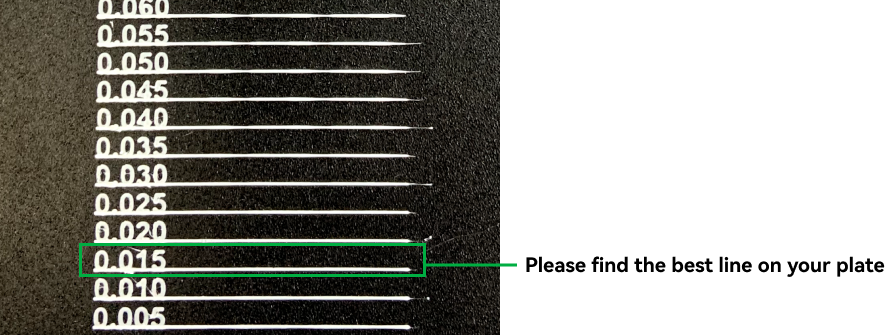
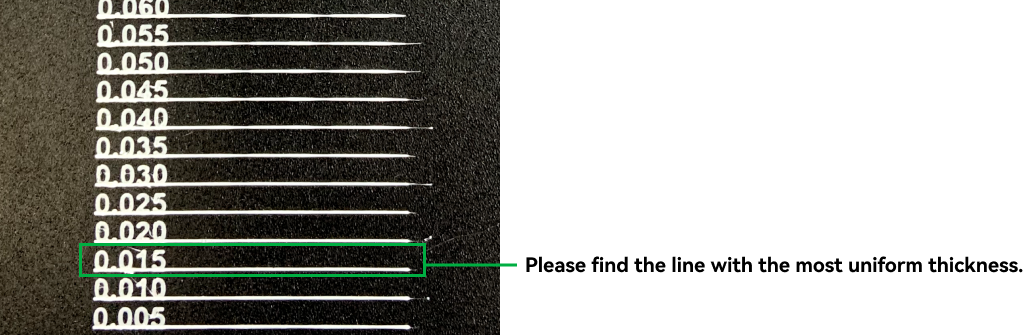
FIX: add Chinese pictures in cali page
(cherry picked from commit 848e51c5da6d9c5c3f4227ed6dc706b19e9eceae)

Changed region(s): [[0.0, 0.0, 1.0, 1.0]]

diff --git a/src/slic3r/GUI/CalibrationWizardSavePage.cpp b/src/slic3r/GUI/CalibrationWizardSavePage.cpp
@@ -514,7 +514,11 @@ void CaliPASaveManualPanel::create_panel(wxWindow* parent)
 }
 
 void CaliPASaveManualPanel::set_save_img() {
-    m_picture_panel->set_img(create_scaled_bitmap("fd_calibration_manual_result", nullptr, 330));
+    if (wxGetApp().app_config->get_language_code() == "zh-cn") { 
+        m_picture_panel->set_img(create_scaled_bitmap("fd_calibration_manual_result_CN", nullptr, 330));
+    } else {
+        m_picture_panel->set_img(create_scaled_bitmap("fd_calibration_manual_result", nullptr, 330));
+    }
 }
 
 void CaliPASaveManualPanel::set_default_name(const wxString& name) {
@@ -649,7 +653,11 @@ void CaliPASaveP1PPanel::create_panel(wxWindow* parent)
 }
 
 void CaliPASaveP1PPanel::set_save_img() {
-    m_picture_panel->set_img(create_scaled_bitmap("fd_calibration_manual_result", nullptr, 350));
+    if (wxGetApp().app_config->get_language_code() == "zh-cn") {
+        m_picture_panel->set_img(create_scaled_bitmap("fd_calibration_manual_result_CN", nullptr, 350));
+    } else {
+        m_picture_panel->set_img(create_scaled_bitmap("fd_calibration_manual_result", nullptr, 350));
+    }
 }
 
 bool CaliPASaveP1PPanel::get_result(float* out_k, float* out_n){
@@ -1220,7 +1228,11 @@ void CalibrationFlowCoarseSavePage::create_page(wxWindow* parent)
 }
 
 void CalibrationFlowCoarseSavePage::set_save_img() {
-    m_picture_panel->set_img(create_scaled_bitmap("flow_rate_calibration_coarse_result", nullptr, 350));
+    if (wxGetApp().app_config->get_language_code() == "zh-cn") { 
+        m_picture_panel->set_img(create_scaled_bitmap("flow_rate_calibration_coarse_result_CN", nullptr, 350));
+    } else {
+        m_picture_panel->set_img(create_scaled_bitmap("flow_rate_calibration_coarse_result", nullptr, 350));
+    }
 }
 
 void CalibrationFlowCoarseSavePage::set_default_name(const wxString& name) {
@@ -1350,7 +1362,11 @@ void CalibrationFlowFineSavePage::create_page(wxWindow* parent)
 }
 
 void CalibrationFlowFineSavePage::set_save_img() {
-    m_picture_panel->set_img(create_scaled_bitmap("flow_rate_calibration_fine_result", nullptr, 350));
+    if (wxGetApp().app_config->get_language_code() == "zh-cn") { 
+        m_picture_panel->set_img(create_scaled_bitmap("flow_rate_calibration_fine_result_CN", nullptr, 350));
+    } else {
+        m_picture_panel->set_img(create_scaled_bitmap("flow_rate_calibration_fine_result", nullptr, 350));
+    }
 }
 
 void CalibrationFlowFineSavePage::set_default_name(const wxString& name) {

diff --git a/src/slic3r/GUI/CalibrationWizardStartPage.cpp b/src/slic3r/GUI/CalibrationWizardStartPage.cpp
@@ -89,7 +89,11 @@ void CalibrationPAStartPage::create_page(wxWindow* parent)
     m_top_sizer->Add(m_when_content);
     m_top_sizer->AddSpacer(PRESET_GAP);
 
-    create_bitmap(parent, "cali_page_before_pa", "cali_page_after_pa");
+    if (wxGetApp().app_config->get_language_code() == "zh-cn") { 
+        create_bitmap(parent, "cali_page_before_pa_CN", "cali_page_after_pa_CN");
+    } else {
+        create_bitmap(parent, "cali_page_before_pa", "cali_page_after_pa");
+    }
     m_top_sizer->Add(m_images_sizer, 0, wxALL, 0);
     m_top_sizer->AddSpacer(PRESET_GAP);
 
@@ -199,7 +203,11 @@ void CalibrationFlowRateStartPage::create_page(wxWindow* parent)
     m_top_sizer->Add(m_when_content);
     m_top_sizer->AddSpacer(PRESET_GAP);
 
-    create_bitmap(parent, "cali_page_flow_introduction");
+    if (wxGetApp().app_config->get_language_code() == "zh-cn") { 
+        create_bitmap(parent, "cali_page_flow_introduction_CN");
+    } else {
+        create_bitmap(parent, "cali_page_flow_introduction");
+    }
     m_top_sizer->Add(m_images_sizer, 0, wxALL, 0);
     m_top_sizer->AddSpacer(PRESET_GAP);
 
@@ -326,7 +334,11 @@ void CalibrationMaxVolumetricSpeedStartPage::create_page(wxWindow* parent)
 
     m_top_sizer->AddSpacer(PRESET_GAP);
 
-    create_bitmap(parent, "cali_page_before_pa", "cali_page_after_pa");
+    if (wxGetApp().app_config->get_language_code() == "zh-cn") {
+        create_bitmap(parent, "cali_page_before_pa_CN", "cali_page_after_pa_CN");
+    } else {
+        create_bitmap(parent, "cali_page_before_pa", "cali_page_after_pa");
+    }
 
     m_top_sizer->Add(m_images_sizer, 0, wxALL, 0);
 